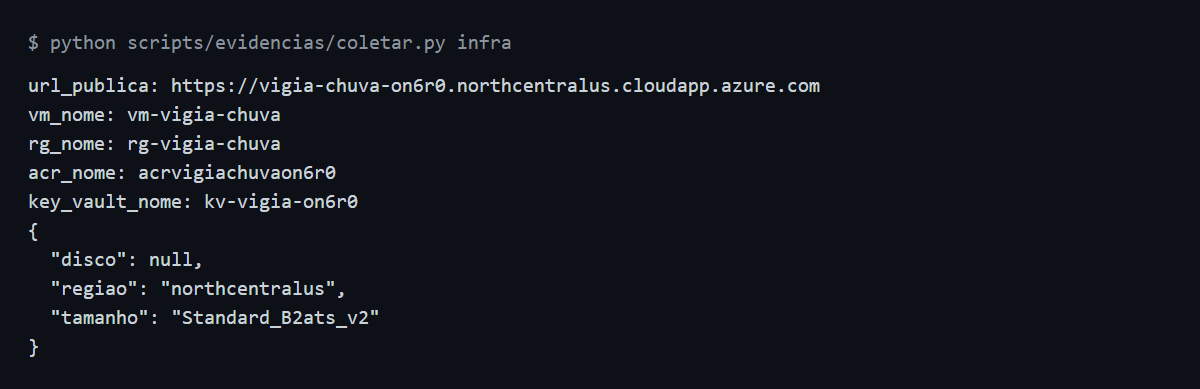
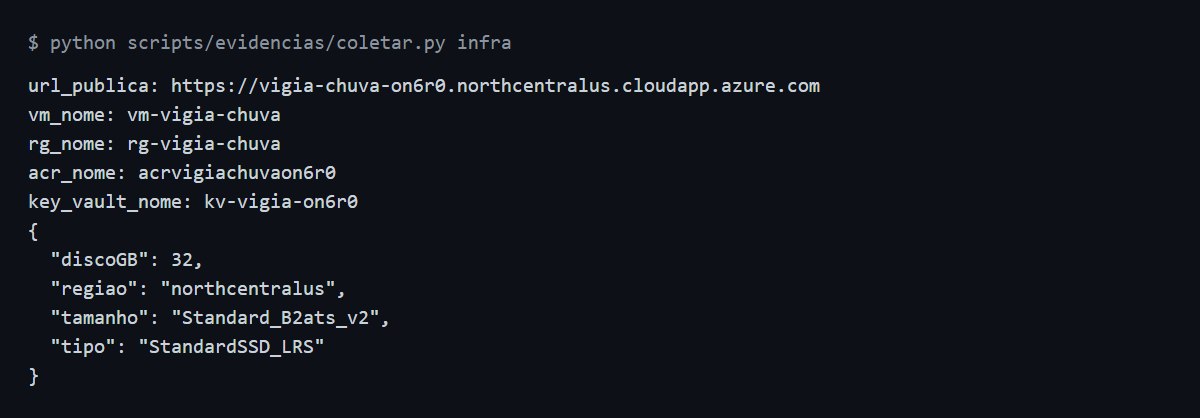
restaura healthcheck e conclui verificacoes

diff --git a/app/vigia/templates/municipio.html b/app/vigia/templates/municipio.html
@@ -1,1 +1,1 @@
-{% extends "base.html" %}{% block titulo %}{{municipio.nome}} - Vigia da Chuva{% endblock %}{% block conteudo %}<h1>{{municipio.nome}} ({{municipio.uf}})</h1>{% if enviado %}<p role="status">Relato registrado. Obrigado por avisar a vizinhança.</p>{% endif %}{% if avaliacao %}<section class="risco"><h2>Nível: <span class="{{avaliacao.nivel.value}}">{{avaliacao.nivel.rotulo}}</span></h2><p>Maior previsão por hora: {{'%.1f'|format(avaliacao.max_mm_hora)}} mm. Acumulado nas próximas 24 horas: {{'%.1f'|format(avaliacao.total_mm_24h)}} mm.</p><p>{{avaliacao.orientacao}}</p>{% if previsao.desatualizada %}<p>Previsão desatualizada, obtida às {{previsao.obtida_em.astimezone(zona).strftime('%H:%M')}}.</p>{% endif %}</section><h2>Previsão horária</h2><table><thead><tr><th>Horário</th><th>Chuva (mm)</th><th>Probabilidade</th></tr></thead><tbody>{% for h in previsao.horas if inicio_janela < h.inicio < fim_janela %}<tr><td>{{h.inicio.strftime('%d/%m %H:%M')}}</td><td>{{h.precipitacao_mm}}</td><td>{{h.probabilidade_pct if h.probabilidade_pct is not none else '?'}}%</td></tr>{% endfor %}</tbody></table>{% else %}<p role="status">Previsão indisponível no momento. Tente novamente mais tarde.</p>{% endif %}<h2>Relatos das últimas 24 horas</h2>{% if relatos %}<ul>{% for r in relatos %}<li><strong>{{r.situacao.rotulo}}</strong>, {{r.bairro}}, {{r.referencia}} ({{r.criado_em.strftime('%d/%m %H:%M')}})</li>{% endfor %}</ul>{% else %}<p>Ainda não há relatos recentes.</p>{% endif %}<h2>Conte o que está acontecendo</h2><p>Não informe dados pessoais. Use uma referência de via pública.</p><form method="post" action="/municipio/{{municipio.codigo_ibge}}/relatos"><label for="bairro">Bairro</label><input id="bairro" name="bairro" maxlength="80" required value="{{valores.get('bairro','')}}">{% if erros.get('bairro') %}<span class="erro">{{erros.bairro}}</span>{% endif %}<label for="referencia">Rua ou referência pública</label><input id="referencia" name="referencia" maxlength="120" required value="{{valores.get('referencia','')}}">{% if erros.get('referencia') %}<span class="erro">{{erros.referencia}}</span>{% endif %}<label for="situacao">Situação</label><select id="situacao" name="situacao" required><option value="">Selecione</option>{% for s in situacoes %}<option value="{{s.value}}" {% if valores.get('situacao')==s.value %}selected{% endif %}>{{s.rotulo}}</option>{% endfor %}</select>{% if erros.get('situacao') %}<span class="erro">{{erros.situacao}}</span>{% endif %}<div class="armadilha"><label for="site">Site</label><input id="site" name="site" tabindex="-1" autocomplete="off"></div><button>Enviar relato anônimo</button></form>{% endblock %}
+{% extends "base.html" %}{% block titulo %}{{municipio.nome}} - Vigia da Chuva{% endblock %}{% block conteudo %}<h1>{{municipio.nome}} ({{municipio.uf}})</h1>{% if enviado %}<p role="status">Relato registrado. Obrigado por avisar a vizinhança.</p>{% endif %}{% if avaliacao %}<section class="risco"><h2>Nível: <span class="{{avaliacao.nivel.value}}">{{avaliacao.nivel.rotulo}}</span></h2><p>Maior previsão por hora: {{'%.1f'|format(avaliacao.max_mm_hora)}} mm. Acumulado nas próximas 24 horas: {{'%.1f'|format(avaliacao.total_mm_24h)}} mm.</p><p>{{avaliacao.orientacao}}</p>{% if previsao.desatualizada %}<p>Previsão desatualizada, obtida às {{previsao.obtida_em.astimezone(zona).strftime('%H:%M')}}.</p>{% endif %}</section><h2>Previsão horária</h2><table><thead><tr><th>Horário</th><th>Chuva (mm)</th><th>Probabilidade</th></tr></thead><tbody>{% for h in previsao.horas if inicio_janela < h.inicio < fim_janela %}<tr><td>{{h.inicio.strftime('%d/%m %H:%M')}}</td><td>{{h.precipitacao_mm}}</td><td>{{h.probabilidade_pct if h.probabilidade_pct is not none else '?'}}%</td></tr>{% endfor %}</tbody></table>{% else %}<p role="status">Previsão indisponível no momento. Tente novamente mais tarde.</p>{% endif %}<h2>Relatos das últimas 24 horas</h2>{% if relatos %}<ul>{% for r in relatos %}<li><strong>{{r.situacao.rotulo}}</strong>, {{r.bairro}}, {{r.referencia}} ({{r.criado_em.astimezone(zona).strftime('%d/%m %H:%M')}})</li>{% endfor %}</ul>{% else %}<p>Ainda não há relatos recentes.</p>{% endif %}<h2>Conte o que está acontecendo</h2><p>Não informe dados pessoais. Use uma referência de via pública.</p><form method="post" action="/municipio/{{municipio.codigo_ibge}}/relatos"><label for="bairro">Bairro</label><input id="bairro" name="bairro" maxlength="80" required value="{{valores.get('bairro','')}}">{% if erros.get('bairro') %}<span class="erro">{{erros.bairro}}</span>{% endif %}<label for="referencia">Rua ou referência pública</label><input id="referencia" name="referencia" maxlength="120" required value="{{valores.get('referencia','')}}">{% if erros.get('referencia') %}<span class="erro">{{erros.referencia}}</span>{% endif %}<label for="situacao">Situação</label><select id="situacao" name="situacao" required><option value="">Selecione</option>{% for s in situacoes %}<option value="{{s.value}}" {% if valores.get('situacao')==s.value %}selected{% endif %}>{{s.rotulo}}</option>{% endfor %}</select>{% if erros.get('situacao') %}<span class="erro">{{erros.situacao}}</span>{% endif %}<div class="armadilha"><label for="site">Site</label><input id="site" name="site" tabindex="-1" autocomplete="off"></div><button>Enviar relato anônimo</button></form>{% endblock %}

diff --git a/scripts/evidencias/coletar.py b/scripts/evidencias/coletar.py
@@ -74,7 +74,11 @@ elif tipo == "trivy":
 elif tipo == "ntfy":
     d = json.loads((RAIZ / "docs/alerta.json").read_text(encoding="utf-8"))
     print("Notificacao real recebida pelo ntfy, sem divulgar o topico:")
-    print(json.dumps(d["notificacao"], ensure_ascii=False, indent=2))
+    mensagem = d["notificacao"]
+    print("Evento:", mensagem["event"], "| instante Unix:", mensagem["time"])
+    print("Titulo:", mensagem["title"])
+    print("Mensagem recebida (inicio):")
+    print("\n".join(mensagem["message"].splitlines()[:12]))
 elif tipo == "alerta":
     d = json.loads((RAIZ / "docs/alerta.json").read_text(encoding="utf-8"))
     e = d[sys.argv[2]]
@@ -93,6 +97,11 @@ elif tipo == "rollback":
     for linha in saida.splitlines():
         if "DEPLOY_FALHOU " in linha and "rollback para" in linha:
             print(linha)
+    d = json.loads((RAIZ / "docs/rollback.json").read_text(encoding="utf-8"))
+    print("Verificacao apos o rollback, UTC:", d["utc"])
+    print("Imagem restaurada:", d["sha_restaurado"])
+    print("Saude do container:", d["saude_container"])
+    print("HTTPS:", json.dumps(d["respostas_https"]))
 else:
     outputs = dados("terraform", "-chdir=infra/main", "output", "-json")
     def val(nome):
@@ -102,7 +111,7 @@ else:
         for nome in ["url_publica", "vm_nome", "rg_nome", "acr_nome", "key_vault_nome"]:
             print(nome + ":", val(nome))
         vm = dados("az", "vm", "show", "-g", rg, "-n", val("vm_nome"),
-                   "--query", "{regiao:location,tamanho:hardwareProfile.vmSize,disco:storageProfile.osDisk.diskSizeGb}", "-o", "json")
+                   "--query", "{regiao:location,tamanho:hardwareProfile.vmSize,discoGB:storageProfile.osDisk.diskSizeGB,tipo:storageProfile.osDisk.managedDisk.storageAccountType}", "-o", "json")
         print(json.dumps(vm, indent=2))
     elif tipo == "nsg":
         regras = dados("az", "network", "nsg", "rule", "list", "-g", rg,
